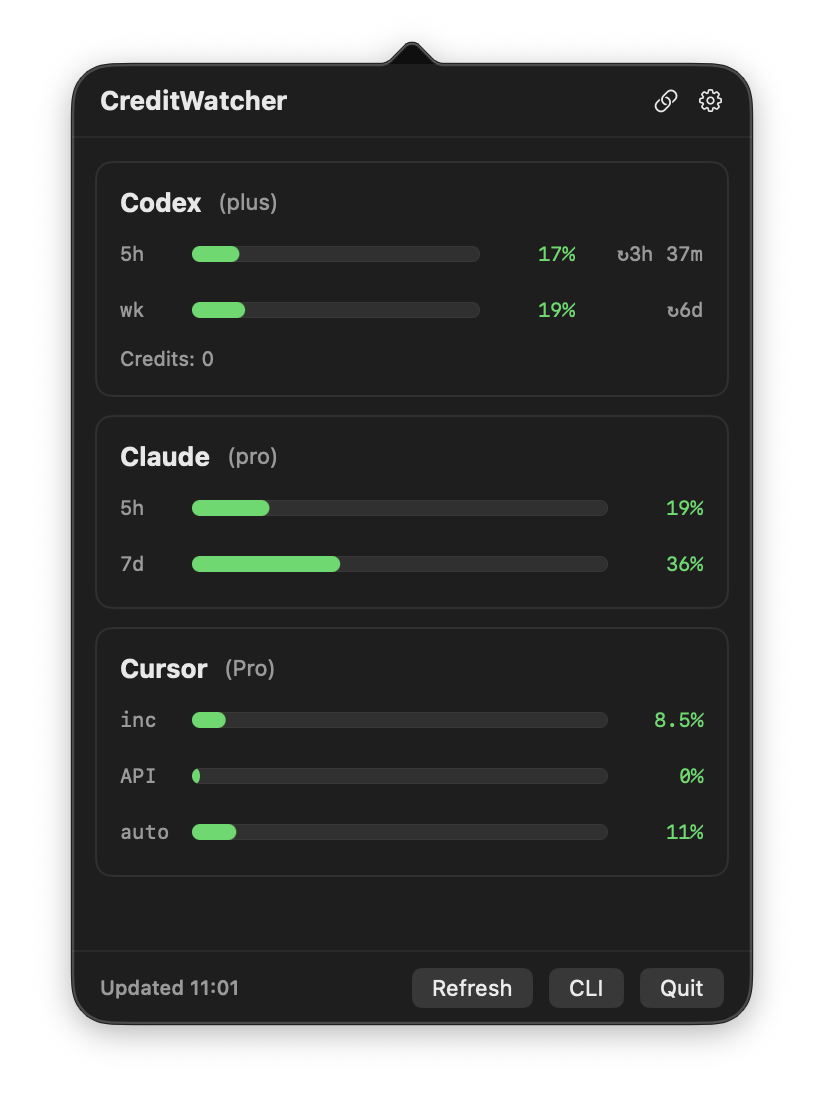
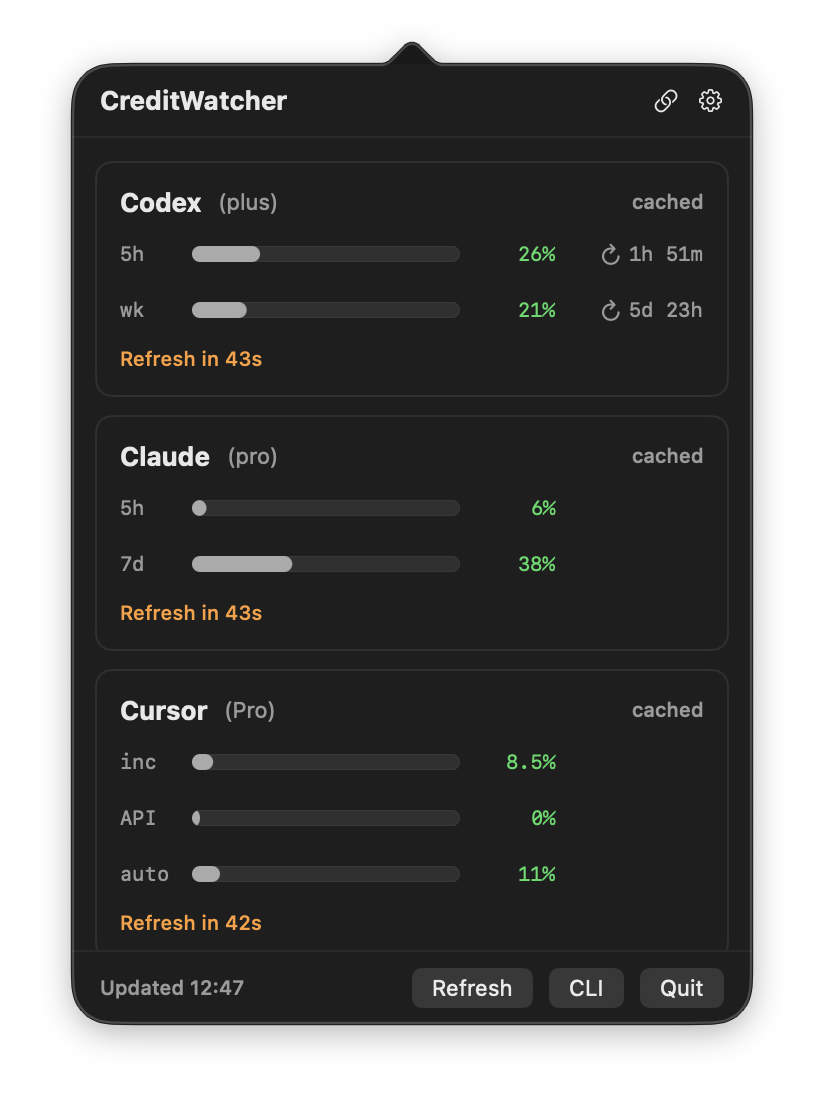
Fix view for next limits refresh and update screenshot

diff --git a/macos/CreditWatcher/ProviderCardView.swift b/macos/CreditWatcher/ProviderCardView.swift
@@ -132,28 +132,7 @@ struct ProviderCardView: View {
     @ViewBuilder
     private var windowRows: some View {
         ForEach(provider.windows) { window in
-            HStack(spacing: 8) {
-                Text(shortWindowLabel(window.label))
-                    .font(.caption.monospaced())
-                    .foregroundStyle(.secondary)
-                    .frame(width: 28, alignment: .leading)
-
-                ProgressView(value: min(max(window.usedPercent, 0), 100), total: 100)
-                    .tint(percentColor(window.usedPercent))
-                    .frame(maxWidth: .infinity)
-
-                Text(formatPercent(window.usedPercent))
-                    .font(.caption.monospaced())
-                    .foregroundStyle(percentColor(window.usedPercent))
-                    .frame(width: 40, alignment: .trailing)
-
-                if let reset = resetAfterSeconds(for: window) {
-                    Text("↻\(formatDuration(seconds: reset))")
-                        .font(.caption2.monospaced())
-                        .foregroundStyle(.secondary)
-                        .frame(width: 56, alignment: .trailing)
-                }
-            }
+            QuotaWindowRowView(window: window, resetSeconds: resetAfterSeconds(for: window))
         }
     }
 
@@ -171,5 +150,50 @@ struct ProviderCardView: View {
             }
         }
         return window.resetAfterSeconds
+    }
+}
+
+private struct QuotaWindowRowView: View {
+    let window: QuotaWindow
+    let resetSeconds: Int?
+
+    var body: some View {
+        HStack(spacing: 8) {
+            Text(shortWindowLabel(window.label))
+                .font(.caption.monospaced())
+                .foregroundStyle(.secondary)
+                .frame(width: 28, alignment: .leading)
+
+            ProgressView(value: min(max(window.usedPercent, 0), 100), total: 100)
+                .tint(percentColor(window.usedPercent))
+                .frame(maxWidth: .infinity)
+
+            Text(formatPercent(window.usedPercent))
+                .font(.caption.monospaced())
+                .foregroundStyle(percentColor(window.usedPercent))
+                .frame(width: 40, alignment: .trailing)
+
+            resetCountdown
+        }
+    }
+
+    @ViewBuilder
+    private var resetCountdown: some View {
+        if let resetSeconds {
+            HStack(spacing: 4) {
+                Image(systemName: "arrow.clockwise")
+                    .font(.caption2.weight(.semibold))
+                    .frame(width: 10, alignment: .center)
+
+                Text(formatDuration(seconds: resetSeconds))
+                    .font(.caption2.monospaced())
+            }
+            .foregroundStyle(.secondary)
+            .frame(width: 66, alignment: .trailing)
+            .help("Resets in \(formatDuration(seconds: resetSeconds))")
+        } else {
+            Color.clear
+                .frame(width: 66)
+        }
     }
 }